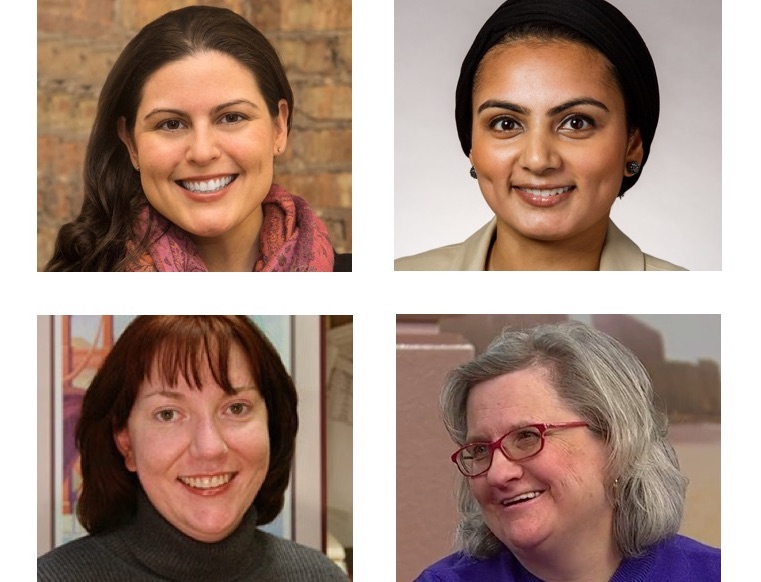
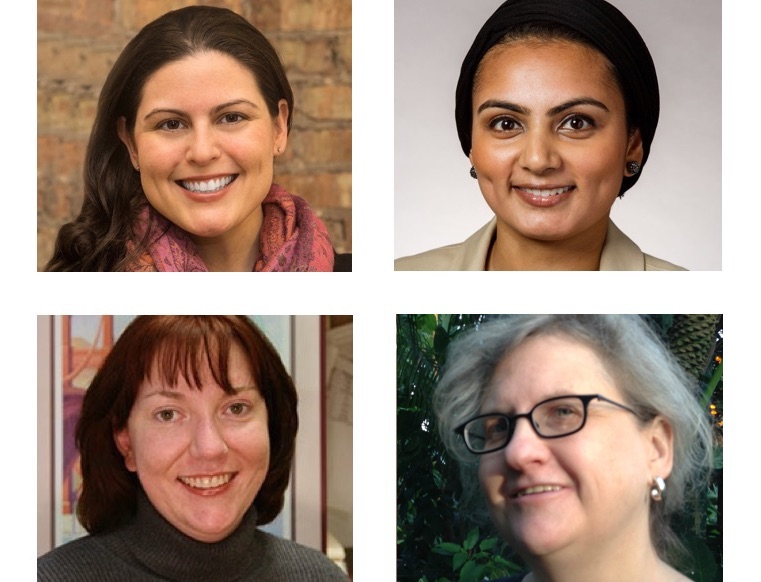
updated photo and spelling for vicki white

Changed region(s): [[0.5138, 0.5258, 0.9671, 1.0]]

diff --git a/_posts/blog/2018-03-06-womens-history-month-speaker-series.md b/_posts/blog/2018-03-06-womens-history-month-speaker-series.md
@@ -3,7 +3,7 @@ layout: blog
 categories: 
   - blog
 title: "Chi Hack Night & City Tech Women’s History Month Speaker Series"
-description: "Jumping off from the success of our Black History Month Speaker Series in February, for the month of March, we will celebrate Women's History Month at Chi Hack Night featuring presentations from Alya Adamany Woods from ChicagoNEXT, Sana Jafri from Chicago Learning Exchange, Vicky White from Chicago Books to Women in Prison and Michelle Frisque the CTO of Chicago Public Libraries. We hope you will join us!"
+description: "Jumping off from the success of our Black History Month Speaker Series in February, for the month of March, we will celebrate Women's History Month at Chi Hack Night featuring presentations from Alya Adamany Woods from ChicagoNEXT, Sana Jafri from Chicago Learning Exchange, Vicki White from Chicago Books to Women in Prison and Michelle Frisque the CTO of Chicago Public Libraries. We hope you will join us!"
 date: 2018-03-06
 image: /images/blog/2018-03-06-womens-history-month/womens-history-month.jpg
 author: Sonja Marziano
@@ -61,12 +61,12 @@ Chicago, IL 60654<br />
 
 [RSVP](https://www.eventbrite.com/e/chi-hack-night-registration-41704072002)
 
-**March 20th - Vicky White, Chicago Books to Women in Prison**
+**March 20th - Vicki White, Chicago Books to Women in Prison**
 
-<p><img src="/images/blog/2018-03-06-womens-history-month/vicky-white.jpg" alt="Vicky White, Chicago Books to Women in Prison" class="img-thumbnail" style='width: 300px;'/>
+<p><img src="/images/blog/2018-03-06-womens-history-month/vicki-white.jpg" alt="Vicki White, Chicago Books to Women in Prison" class="img-thumbnail" style='width: 300px;'/>
 </p>
 
-For our third event, Vicky White, President of [Chicago Books to Women in Prison](https://chicagobwp.org/), will share her experiences leading an all-volunteer group that distributes books free of charge to incarcerated women nationwide.
+For our third event, Vicki White, President of [Chicago Books to Women in Prison](https://chicagobwp.org/), will share her experiences leading an all-volunteer group that distributes books free of charge to incarcerated women nationwide.
 
 Tuesday, March 20, 6pm<br />
 Braintree<br />
